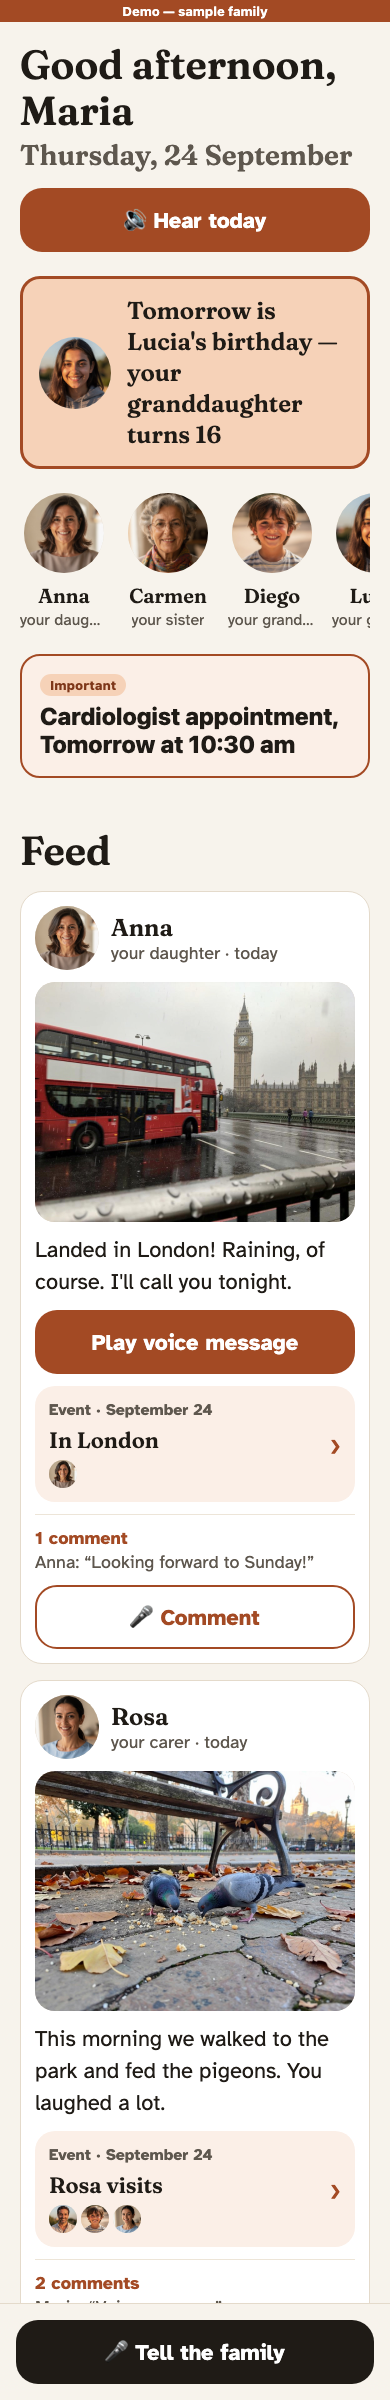
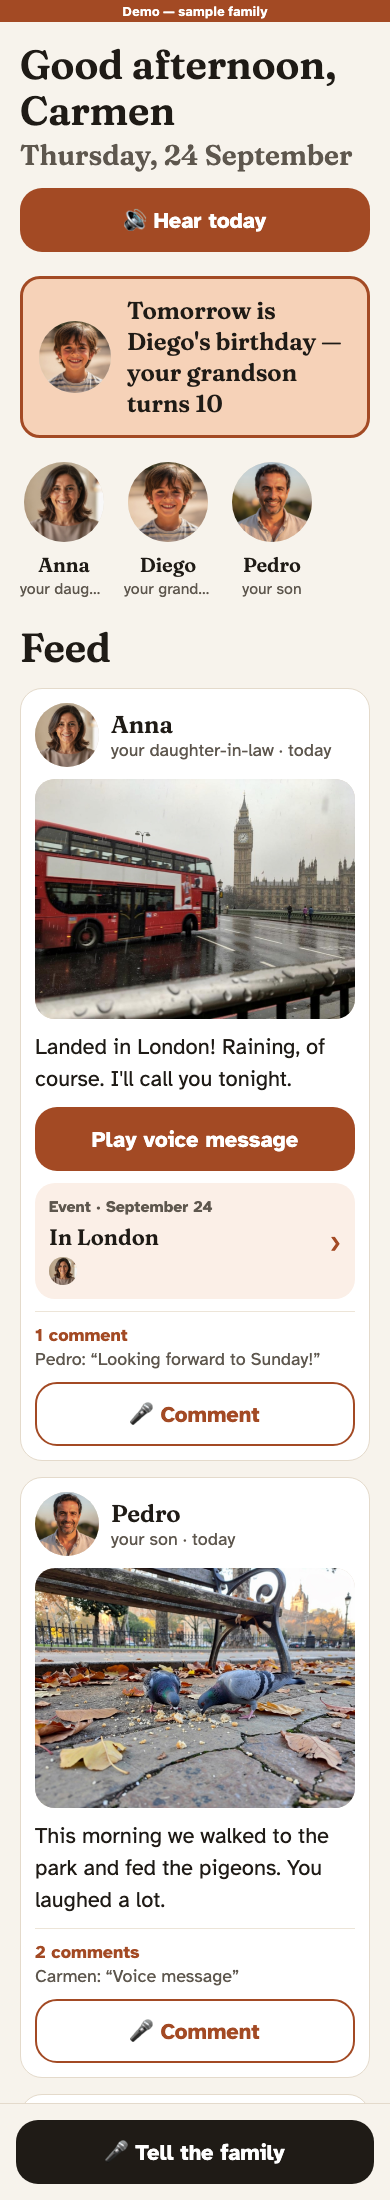
fix(design): recast ?demo= fixtures to Carmen/Pedro/Anna/Diego + Blood test check-in, fix 'This is my phone' wording

diff --git a/src/lib/demo.ts b/src/lib/demo.ts
@@ -10,7 +10,7 @@ import { defaultReminders } from './important';
 import { normalizeCode, urlHint, uuidv4 } from './util';
 import { summarizeComments } from './voice';
 
-const CIRCLE: Circle = { id: 'demo-circle', code: 'K7M4QX', patient_name: 'Maria' };
+const CIRCLE: Circle = { id: 'demo-circle', code: 'K7M4QX', patient_name: 'Carmen' };
 
 const DAY = 86_400_000;
 const now = () => new Date();
@@ -21,7 +21,7 @@ const addDays = (d: Date, n: number) => new Date(d.getFullYear(), d.getMonth(), 
 const tomorrow = addDays(now(), 1);
 const inThreeDays = addDays(now(), 3); // "Sunday" relative to whatever day the demo runs on
 
-// Same family, photos and captions as demo/seed-abuela.sql ("Maria's family", code ABUELA) —
+// Same family, photos and captions as demo/seed-abuela.sql ("Carmen's family", code ABUELA) —
 // keep the two in sync by hand; this is the in-memory stand-in for that seed.
 const MEDIA = 'https://xgelxazkvsgrhggmxlzz.supabase.co/storage/v1/object/public/media/demo/';
 const img = (file: string) => `${MEDIA}${file}`;
@@ -31,19 +31,21 @@ const person = (id: string, name: string, relation: string, extra: Partial<Perso
   role: 'member', claimed: false, ...extra,
 });
 
-// View family mode as someone else with /?demo=family&as=pedro|carmen|lucia|diego|rosa.
+const pad2 = (n: number) => String(n).padStart(2, '0');
+
+// View family mode as someone else with /?demo=family&as=pedro|anna|diego.
 let people: Person[] = [
-  person('anna', 'Anna', 'your daughter', { birthday: '1976-03-14', role: 'lead', claimed: true }),
-  person('pedro', 'Pedro', 'your son', { birthday: '1979-06-02', role: 'admin', claimed: true }),
-  person('carmen', 'Carmen', 'your sister', { birthday: '1950-11-20', claimed: true }),
-  person('lucia', 'Lucia', 'your granddaughter', { birthday: '2010-09-25' }), // unclaimed: a child who doesn't use the app
-  person('diego', 'Diego', 'your grandson', { birthday: '2017-05-09' }), // unclaimed: a child who doesn't use the app
-  person('rosa', 'Rosa', 'your carer', { role: 'admin', claimed: true }),
+  person('pedro', 'Pedro', 'your son', { birthday: '1979-06-02', role: 'lead', claimed: true }),
+  person('anna', 'Anna', 'your daughter-in-law', { birthday: '1976-03-14', role: 'admin', claimed: true }),
+  // Turns 10 tomorrow, like the seed's `(current_date + 1) - interval '10 years'`.
+  person('diego', 'Diego', 'your grandson', {
+    birthday: `${tomorrow.getFullYear() - 10}-${pad2(tomorrow.getMonth() + 1)}-${pad2(tomorrow.getDate())}`,
+  }), // unclaimed: a child who doesn't use the app
 ];
 
-// `about`/`by` are people ids; `audio` mirrors the seed's optional voice note.
+// `about`/`by` are people ids (null `about` = about everyone); `audio` mirrors the seed's optional voice note.
 const moment = (
-  id: string, about: string, by: string, body: string, photo: string, hoursAgo: number, audio: string | null = null,
+  id: string, about: string | null, by: string, body: string, photo: string, hoursAgo: number, audio: string | null = null,
 ): Moment => ({
   id, circle_id: CIRCLE.id, person_id: about, author_person_id: by,
   author: people.find((p) => p.id === by)?.name ?? null, body, photo_url: img(photo),
@@ -52,25 +54,23 @@ const moment = (
 
 let moments: Moment[] = [
   moment('m1', 'anna', 'anna', "Landed in London! Raining, of course. I'll call you tonight.", 'm_london.jpg', 2, 'v_anna.mp3'),
-  moment('m2', 'rosa', 'rosa', 'This morning we walked to the park and fed the pigeons. You laughed a lot.', 'm_park.jpg', 4),
+  moment('m2', null, 'pedro', 'This morning we walked to the park and fed the pigeons. You laughed a lot.', 'm_park.jpg', 4),
   moment('m3', 'diego', 'pedro', "Diego made you a drawing at school. We're coming on Sunday with the cake.", 'm_drawing.jpg', 24, 'v_pedro.mp3'),
-  moment('m4', 'carmen', 'carmen', "The geraniums on my balcony are blooming again, just like Mum's used to.", 'm_garden.jpg', 48, 'v_carmen.mp3'),
-  moment('m5', 'lucia', 'anna', 'Lucia got a nine in her maths exam! She turns 16 tomorrow.', 'm_exam.jpg', 72),
-  moment('m6', 'anna', 'anna', 'We had lunch at the beach. You loved the paella.', 'm_paella.jpg', 144),
+  moment('m4', 'anna', 'anna', 'We had lunch at the beach. You loved the paella.', 'm_paella.jpg', 144),
 ];
 
 const comment = (
   id: string, moment_id: string, by: string | null, body: string | null, mins: number, audio_url: string | null = null,
 ): Comment => ({
   id, moment_id, circle_id: CIRCLE.id, author_person_id: by,
-  author_name: by ? people.find((p) => p.id === by)?.name ?? null : 'Maria',
+  author_name: by ? people.find((p) => p.id === by)?.name ?? null : 'Carmen',
   body, audio_url, created_at: new Date(Date.now() - mins * 60_000).toISOString(),
 });
 
 let comments: Comment[] = [
-  comment('c1', 'm2', 'pedro', 'A champion in the making!', 90),
-  comment('c2', 'm2', null, null, 20, 'demo-audio://mom-reply'), // Mom's voice reply
-  comment('c3', 'm1', 'anna', 'Looking forward to Sunday!', 200),
+  comment('c1', 'm2', 'anna', 'A champion in the making!', 90),
+  comment('c2', 'm2', null, null, 20, 'demo-audio://mom-reply'), // Carmen's voice reply
+  comment('c3', 'm1', 'pedro', 'Looking forward to Sunday!', 200),
 ];
 
 let calendars: CalendarPublic[] = [
@@ -79,8 +79,8 @@ let calendars: CalendarPublic[] = [
     last_synced_at: isoDaysAgo(0.003), last_error: null, person_ids: ['anna'],
   },
   {
-    id: 'cal-family', circle_id: CIRCLE.id, label: 'Family', url_hint: 'family.ics',
-    last_synced_at: isoDaysAgo(0.003), last_error: null, person_ids: ['pedro', 'diego', 'rosa'],
+    id: 'cal-family', circle_id: CIRCLE.id, label: 'Family', url_hint: 'family-v2.ics',
+    last_synced_at: isoDaysAgo(0.003), last_error: null, person_ids: ['pedro', 'diego'],
   },
 ];
 
@@ -88,9 +88,8 @@ const at = (d: Date, h: number, min = 0) => new Date(d.getFullYear(), d.getMonth
 const event = (id: string, calendar_id: string, title: string, starts: string, ends: string, all_day: boolean, location: string | null = null) =>
   ({ id, calendar_id, uid: id, title, location, starts_at: starts, ends_at: ends, all_day });
 
-// Mirrors demo/assets/anna.ics + family.ics, kept relative to "today" instead of their fixed 2026-09-24
-// dates so the demo looks current on any day. `rosa-visits` is weekly Mon–Fri in the real .ics;
-// ponytail: shown here as a single instance today, add recurrence once the agenda view needs it.
+// Mirrors demo/assets/anna.ics + family-v2.ics, kept relative to "today" instead of their fixed
+// 2026-09-24 dates so the demo looks current on any day.
 let rawEvents = [
   event('e-london', 'cal-anna', 'In London', utcDay(now()).toISOString(), utcDay(addDays(now(), 4)).toISOString(), true),
   event('e-flight', 'cal-anna', 'Flying home to Madrid', at(inThreeDays, 18), at(inThreeDays, 20, 30), false),
@@ -98,17 +97,18 @@ let rawEvents = [
     'e-lunch', 'cal-family', 'Sunday lunch with you — Pedro and Diego bring the cake',
     at(inThreeDays, 13, 30), at(inThreeDays, 16, 30), false, 'Your home',
   ),
-  event('e-rosa', 'cal-family', 'Rosa visits', at(now(), 9), at(now(), 13), false),
 ];
 
-// `check` reminder is overridden to a few minutes ago so the demo patient sees it due immediately,
-// regardless of when the demo happens to be opened (the mockups always show it due).
-const appt = new Date(tomorrow.getFullYear(), tomorrow.getMonth(), tomorrow.getDate(), 10, 30).toISOString();
+// Blood test this morning, like the seed's `current_date + 09:00..09:30`. The `check` reminder is
+// overridden to a few minutes ago so the demo patient sees "Did you go?" due immediately, regardless
+// of when the demo happens to be opened.
+const bloodTestStart = new Date(now().getFullYear(), now().getMonth(), now().getDate(), 9, 0).toISOString();
+const bloodTestEnd = new Date(now().getFullYear(), now().getMonth(), now().getDate(), 9, 30).toISOString();
 let importantEvents: ImportantEvent[] = [
   {
-    id: 'imp-cardio', circle_id: CIRCLE.id, title: 'Cardiologist appointment', starts_at: appt, ends_at: null,
-    location: 'Calle Mayor 1', for_person: 'mom', created_by_person_id: 'anna',
-    reminders: defaultReminders(new Date(appt), null).map((r) =>
+    id: 'imp-blood', circle_id: CIRCLE.id, title: 'Blood test', starts_at: bloodTestStart, ends_at: bloodTestEnd,
+    location: 'Health centre', for_person: 'mom', created_by_person_id: 'pedro',
+    reminders: defaultReminders(new Date(bloodTestStart), new Date(bloodTestEnd)).map((r) =>
       r.kind === 'check' ? { ...r, at: new Date(Date.now() - 5 * 60_000).toISOString() } : r,
     ),
     created_at: isoDaysAgo(1),
@@ -341,7 +341,7 @@ export function demoBoot(): DemoBoot | null {
   if (kind === 'join') return { session: null, joinCode: CIRCLE.code }; // the "Which one are you?" screen
   if (kind === 'patient') {
     return {
-      session: { role: 'patient', circleId: CIRCLE.id, code: CIRCLE.code, patientName: 'Maria', memberName: 'Maria' },
+      session: { role: 'patient', circleId: CIRCLE.id, code: CIRCLE.code, patientName: 'Carmen', memberName: 'Carmen' },
       personId: q.get('person') ?? undefined,
     };
   }
@@ -349,7 +349,7 @@ export function demoBoot(): DemoBoot | null {
   const me = people.find((p) => p.id === q.get('as')) ?? people[0];
   return {
     session: {
-      role: 'family', circleId: CIRCLE.id, code: CIRCLE.code, patientName: 'Maria',
+      role: 'family', circleId: CIRCLE.id, code: CIRCLE.code, patientName: 'Carmen',
       memberName: me.name, memberId: me.id, relation: me.relation ?? undefined,
     },
   };

diff --git a/src/screens/Welcome.tsx b/src/screens/Welcome.tsx
@@ -14,7 +14,7 @@ type Step =
   | 'choose'
   | 'setupName' | 'setupLead' | 'invite' // "I'm setting up Cercana for someone in my family"
   | 'joinCode' | 'joinConfirm' // "I have an invite code or link" typed in (not via a link)
-  | 'patientCode' | 'patientConfirm'; // "This is the phone of the person we care for"
+  | 'patientCode' | 'patientConfirm'; // "This is my phone" (Andrey: Mom may read this screen herself)
 
 type Props = {
   /** The patient's phone is set up: it joined by code, this device becomes a patient session. */
@@ -102,7 +102,7 @@ export function Welcome({ onDone, onJoinCode }: Props) {
           <Text style={s.title}>Welcome</Text>
           <BigButton label="I'm setting up Cercana for someone in my family" onPress={() => go('setupName')} />
           <BigButton label="I have an invite code or link" tone="terracotta" onPress={() => go('joinCode')} />
-          <BigButton label="This is the phone of the person we care for" tone="plain" onPress={() => go('patientCode')} />
+          <BigButton label="This is my phone" tone="plain" onPress={() => go('patientCode')} />
         </View>
       )}
       {step === 'setupName' && (
@@ -135,7 +135,7 @@ export function Welcome({ onDone, onJoinCode }: Props) {
           <View style={s.card}>
             <Text style={s.cardTitle}>Set up {created.patientName}'s phone</Text>
             <Text style={s.body}>1. On her phone, open Cercana.</Text>
-            <Text style={s.body}>2. Choose "This is the phone of the person we care for" and type the code above.</Text>
+            <Text style={s.body}>2. Choose "This is my phone" and type the code above.</Text>
           </View>
           <BigButton label="Done" onPress={() => onDone(created)} />
         </View>

diff --git a/src/screens/Settings.tsx b/src/screens/Settings.tsx
@@ -60,7 +60,7 @@ export function Settings({ session, canInvite, onBack, onLeave, canEditBrief, on
         <>
           <Text style={s.cardTitle}>Set up {session.patientName}'s phone</Text>
           <Text style={s.body}>1. On her phone, open Cercana.</Text>
-          <Text style={s.body}>2. Choose "This is the phone of the person we care for" and type the code above.</Text>
+          <Text style={s.body}>2. Choose "This is my phone" and type the code above.</Text>
         </>
       ) : null}
       <BigButton label="Back" tone="plain" onPress={onBack} />
